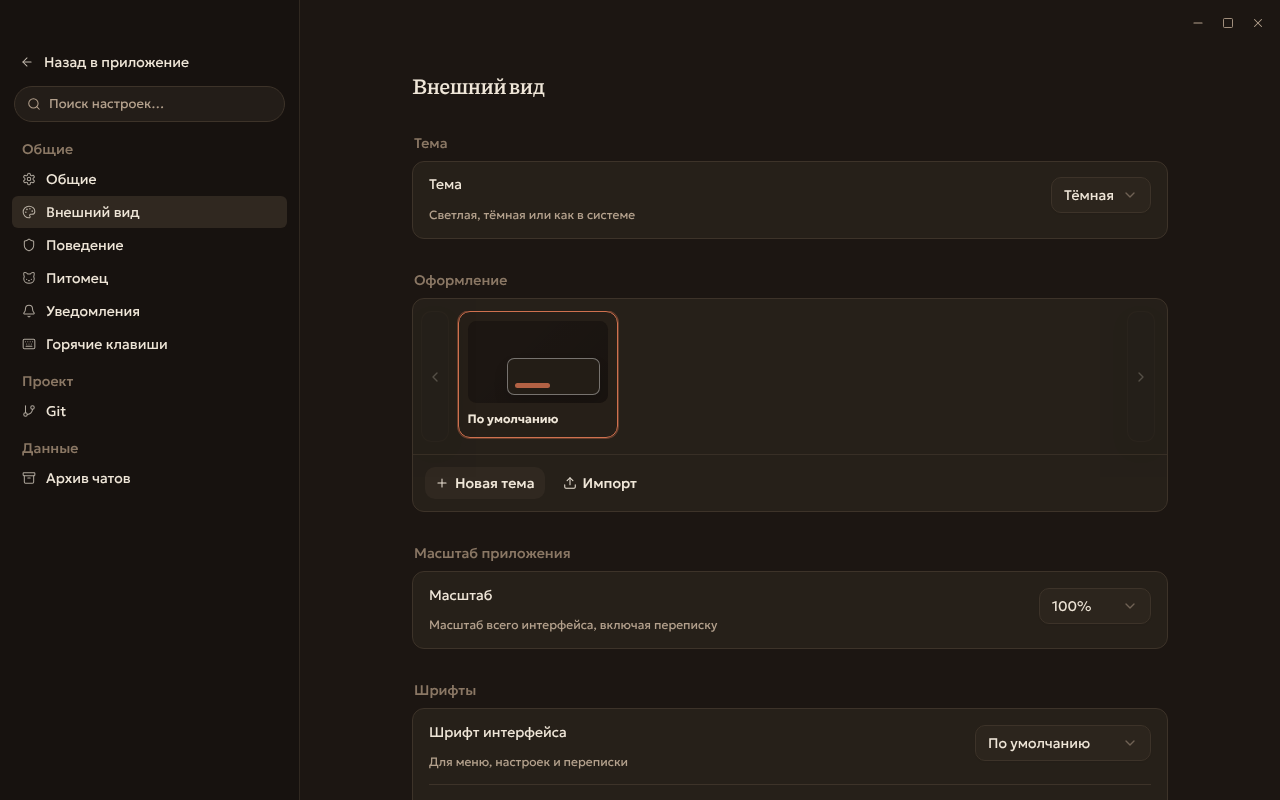
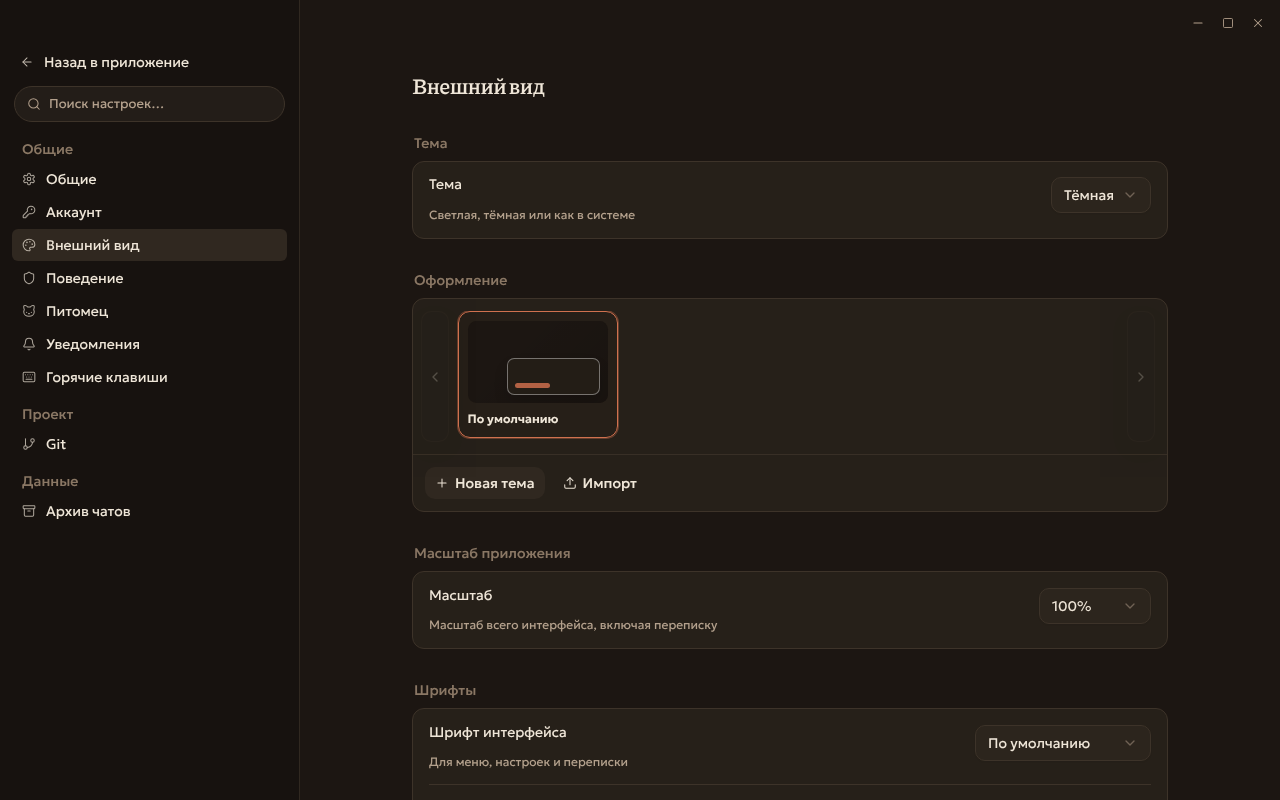
desktop/ui: casual tool cards, first-run/undo/account screenshots, STATUS
- Raw tool names hidden on step cards outside developer mode.
- Cost chip hidden at zero (PRSLOY models carry no prices yet).
- Key error sits under the field.
- e2e-screens/first-run.spec.ts: real first run against a mock gateway, undo
  checked on disk, account; light and dark screenshots.

Claude-Session: https://claude.ai/code/session_01T1MXX92ZtwWirroZLYeuiB

Changed region(s): [[0.0, 0.2188, 0.25, 0.4375], [0.0, 0.4688, 0.125, 0.5625], [0.0, 0.5938, 0.0938, 0.6562]]

diff --git a/app/apps/desktop/e2e-screens/first-run.spec.ts b/app/apps/desktop/e2e-screens/first-run.spec.ts
@@ -1,0 +1,218 @@
+/**
+ * First run → undo → account, in light and dark, against a local mock of the PRSLOY gateway.
+ *
+ *   pnpm --filter @zeno/desktop run build
+ *   xvfb-run -a pnpm --filter @zeno/desktop exec playwright test -c playwright.screens.config.ts
+ *
+ * Fresh isolated profile per theme (ZENO_ISOLATED=1, temp HOME and userData). The gateway
+ * address is pre-seeded to the mock (loopback http is allowed); `GET /v1/models` accepts only
+ * `sk-good`, so a wrong key shows core's `invalid_key` in Russian. The model writes one file,
+ * which gives the turn its «Откатить».
+ */
+import { expect, test, type Page } from "@playwright/test";
+import { _electron as electron } from "playwright";
+import { createServer, type Server } from "node:http";
+import { createRequire } from "node:module";
+import { existsSync } from "node:fs";
+import { mkdir, mkdtemp, rm, writeFile } from "node:fs/promises";
+import { homedir, tmpdir } from "node:os";
+import { dirname, join } from "node:path";
+import { fileURLToPath } from "node:url";
+
+const require = createRequire(import.meta.url);
+const electronBinary = require("electron") as string;
+const appDirectory = join(dirname(fileURLToPath(import.meta.url)), "..");
+const outDir = join(appDirectory, "..", "..", "docs", "prsloy", "screens");
+const GOOD_KEY = "sk-good-0000abcd";
+
+type Message = { role: string };
+
+function mockGateway(pagePath: string): Server {
+  return createServer((req, res) => {
+    const authorized = req.headers.authorization === `Bearer ${GOOD_KEY}`;
+    if (req.method === "GET" && req.url === "/v1/models") {
+      res.writeHead(authorized ? 200 : 401, { "content-type": "application/json" });
+      res.end(
+        JSON.stringify(
+          authorized
+            ? { data: [{ id: "deepseek-v4.1-flash-1017" }, { id: "kimi-k3.1-pro" }] }
+            : { error: { message: "bad key" } },
+        ),
+      );
+      return;
+    }
+    let body = "";
+    req.on("data", (chunk: Buffer) => (body += String(chunk)));
+    req.on("end", () => {
+      if (!authorized) {
+        res.writeHead(401).end();
+        return;
+      }
+      const { messages = [], model = "m" } = JSON.parse(body || "{}") as {
+        messages?: Message[];
+        model?: string;
+      };
+      const lastUser = messages.findLastIndex((m) => m.role === "user");
+      const afterTool = messages.slice(lastUser + 1).some((m) => m.role === "tool");
+      res.writeHead(200, { "content-type": "text/event-stream" });
+      const send = (delta: object, finish: string | null = null, usage?: object) =>
+        res.write(
+          `data: ${JSON.stringify({
+            id: "c1",
+            object: "chat.completion.chunk",
+            created: 0,
+            model,
+            choices: [{ index: 0, delta, finish_reason: finish }],
+            ...(usage ? { usage } : {}),
+          })}\n\n`,
+        );
+      send({ role: "assistant", content: "" });
+      if (!afterTool) {
+        const content = "<!doctype html>\n<title>Зерно</title>\n<h1>Кофейня «Зерно»</h1>\n";
+        send({
+          tool_calls: [
+            {
+              index: 0,
+              id: "call-write",
+              type: "function",
+              function: { name: "write", arguments: JSON.stringify({ path: pagePath, content }) },
+            },
+          ],
+        });
+        send({}, "tool_calls", { prompt_tokens: 2400, completion_tokens: 90, total_tokens: 2490 });
+      } else {
+        for (const part of "Готово: сделал страницу кофейни с заголовком. Открыть превью?".split(
+          " ",
+        ))
+          send({ content: `${part} ` });
+        send({}, "stop", { prompt_tokens: 2600, completion_tokens: 40, total_tokens: 2640 });
+      }
+      res.end("data: [DONE]\n\n");
+    });
+  });
+}
+
+async function shot(page: Page, name: string) {
+  await page.evaluate(() => document.fonts.ready);
+  await page.waitForTimeout(400);
+  await page.screenshot({ path: join(outDir, `${name}.png`) });
+}
+
+for (const mode of ["light", "dark"] as const) {
+  test(`first run, undo and account (${mode})`, async () => {
+    await mkdir(outDir, { recursive: true });
+    const root = await mkdtemp(join(tmpdir(), `prsloy-first-run-${mode}-`));
+    const home = join(root, "home");
+    const userData = join(root, "userData");
+    // Projects live outside tmp: main treats /tmp paths as throwaway, never as a recent project.
+    const projects = await mkdtemp(join(homedir(), `.prsloy-screens-${mode}-`));
+    const zerno = join(projects, "kofeynya-zerno");
+    await Promise.all([
+      mkdir(home, { recursive: true }),
+      mkdir(join(userData, "prsloy"), { recursive: true }),
+      mkdir(zerno, { recursive: true }),
+    ]);
+    const pagePath = join(zerno, "index.html");
+    await writeFile(join(zerno, "README.md"), "# Кофейня «Зерно»\n");
+
+    const server = mockGateway(pagePath);
+    await new Promise<void>((resolve) => server.listen(0, "127.0.0.1", resolve));
+    const { port } = server.address() as { port: number };
+    await writeFile(
+      join(userData, "prsloy", "state.json"),
+      JSON.stringify({ baseUrl: `http://127.0.0.1:${port}/v1` }),
+    );
+
+    const env: Record<string, string> = {};
+    for (const [key, value] of Object.entries(process.env)) {
+      if (value !== undefined) env[key] = value;
+    }
+    Object.assign(env, {
+      HOME: home,
+      USERPROFILE: home,
+      XDG_CONFIG_HOME: join(home, ".config"),
+      ZENO_ISOLATED: "1",
+      ZENO_NO_AUTO_RESUME: "1",
+      LANG: "ru_RU.UTF-8",
+    });
+    delete env.ELECTRON_RUN_AS_NODE;
+    delete env.ZENO_ENABLE_TEST_COMMANDS;
+    delete env.PI_CODING_AGENT_DIR;
+
+    const app = await electron.launch({
+      executablePath: electronBinary,
+      args: [
+        appDirectory,
+        `--user-data-dir=${userData}`,
+        "--lang=ru",
+        // Linux CI has no keyring; basic store lets safeStorage encrypt like DPAPI would.
+        "--password-store=basic",
+      ],
+      cwd: appDirectory,
+      env,
+      timeout: 60_000,
+    });
+    try {
+      const page = await app.firstWindow({ timeout: 60_000 });
+      await app.evaluate(({ BrowserWindow }) => {
+        const win = BrowserWindow.getAllWindows()[0];
+        win?.setContentSize(1280, 800);
+        win?.center();
+      });
+      await expect(page.getByTestId("prsloy-first-run-key")).toBeVisible({ timeout: 60_000 });
+      // Pin the app's own theme preference (main overrides an OS-level switch).
+      await page.evaluate((value) => localStorage.setItem("zeno.colorMode", value), mode);
+      await page.reload();
+
+      // Key: a wrong key first, so the screenshot shows core's code in plain Russian.
+      await expect(page.getByTestId("prsloy-first-run-key")).toBeVisible({ timeout: 60_000 });
+      const input = page.getByPlaceholder("sk-…");
+      await input.fill("sk-wrong");
+      await page.getByRole("button", { name: "Продолжить" }).click();
+      await expect(page.getByRole("alert")).toContainText("Ключ не подошёл");
+      await shot(page, `${mode}-first-run-key`);
+
+      await input.fill(GOOD_KEY);
+      await page.getByRole("button", { name: "Продолжить" }).click();
+      await expect(page.getByTestId("prsloy-first-run-folder")).toBeVisible({ timeout: 60_000 });
+      await shot(page, `${mode}-first-run-folder`);
+
+      // The native folder dialog cannot be driven; answer it with the demo project.
+      await app.evaluate(({ dialog }, folder) => {
+        dialog.showOpenDialog = (async () => ({
+          canceled: false,
+          filePaths: [folder],
+        })) as unknown as typeof dialog.showOpenDialog;
+      }, zerno);
+      await page.getByTestId("prsloy-folder-pick").click();
+      await page.waitForSelector('[data-testid="zeno-app"][data-bootstrap-ready="true"]', {
+        timeout: 120_000,
+      });
+
+      await page.getByTestId("prompt-input").fill("Сделай главную страницу кофейни");
+      await page.getByTestId("send-prompt").click();
+      await expect(page.getByTestId("timeline")).toContainText("Открыть превью?", {
+        timeout: 90_000,
+      });
+      expect(existsSync(pagePath)).toBe(true);
+      const undo = page.getByTestId("turn-undo-btn");
+      await expect(undo).toBeEnabled({ timeout: 30_000 });
+      await undo.click();
+      await expect(page.getByTestId("turn-undo-confirm")).toBeVisible();
+      await shot(page, `${mode}-undo`);
+      await page.getByTestId("turn-undo-confirm").getByRole("button", { name: "Откатить" }).click();
+      await expect(page.getByTestId("turn-undo-result")).toHaveText("Вернул 1 файл");
+      expect(existsSync(pagePath)).toBe(false);
+      await shot(page, `${mode}-undo-done`);
+
+      await page.keyboard.press("Control+,");
+      await page.getByTestId("settings-nav-account").click();
+      await expect(page.getByTestId("settings-account-masked")).toContainText("abcd");
+      await shot(page, `${mode}-account`);
+    } finally {
+      await app.close().catch(() => undefined);
+      server.close();
+      await rm(projects, { recursive: true, force: true });
+    }
+  });
+}

diff --git a/app/apps/desktop/e2e-screens/screens.spec.ts b/app/apps/desktop/e2e-screens/screens.spec.ts
@@ -6,7 +6,7 @@
  *
  * Runs the dev bundle isolated (ZENO_ISOLATED=1, temp HOME and userData) against a local
  * OpenAI-compatible fake that answers in Russian, reads one file, and reports token usage
- * so the ruble cost shows. The two tier models are registered under the PRSLOY provider.
+ * so the ruble cost shows. The two tier models are registered under a demo provider.
  */
 import { expect, test, type Page } from "@playwright/test";
 import { _electron as electron, type ElectronApplication } from "playwright";
@@ -110,7 +110,8 @@ async function launch(): Promise<{ app: ElectronApplication; page: Page; server:
     join(agentDir, "models.json"),
     JSON.stringify({
       providers: {
-        prsloy: {
+        // Not `prsloy`: core owns that provider and supplies its key at runtime.
+        "prsloy-demo": {
           baseUrl: `http://127.0.0.1:${port}/v1`,
           apiKey: "test-key-not-secret",
           api: "openai-completions",
@@ -133,8 +134,11 @@ async function launch(): Promise<{ app: ElectronApplication; page: Page; server:
     XDG_CONFIG_HOME: join(home, ".config"),
     PI_CODING_AGENT_DIR: agentDir,
     ZENO_ISOLATED: "1",
+    // Core honors PI_CODING_AGENT_DIR (this fake provider) only in test mode, which also
+    // skips the first-run screens; first-run.spec.ts covers those.
+    ZENO_ENABLE_TEST_COMMANDS: "1",
     ZENO_WORKSPACE: workspace,
-    ZENO_MODEL_PROVIDER: "prsloy",
+    ZENO_MODEL_PROVIDER: "prsloy-demo",
     ZENO_MODEL_ID: "deepseek-v4.1-flash-1017",
     ZENO_TOOLS: "read",
     ZENO_PERSIST_SESSION: "0",

diff --git a/app/apps/desktop/src/renderer/components/prsloy/FirstRunGate.tsx b/app/apps/desktop/src/renderer/components/prsloy/FirstRunGate.tsx
@@ -129,6 +129,11 @@ export function FirstRunGate({ children }: { children: ReactNode }) {
               onChange={(event) => setKey(event.target.value)}
               disabled={busy}
             />
+            {error ? (
+              <p role="alert" className="prsloy-first-run-error">
+                {error}
+              </p>
+            ) : null}
             <Button type="submit" className="h-10" disabled={busy || !cleanPastedKey(key)}>
               {busy
                 ? t(locale, "prsloy.firstRun.keyChecking")
@@ -176,16 +181,16 @@ export function FirstRunGate({ children }: { children: ReactNode }) {
                 ))}
               </div>
             ) : null}
+            {error ? (
+              <p role="alert" className="prsloy-first-run-error">
+                {error}
+              </p>
+            ) : null}
             {state?.keyMemoryOnly ? (
               <p className="prsloy-first-run-note">{t(locale, "prsloy.firstRun.keyMemoryOnly")}</p>
             ) : null}
           </div>
         )}
-        {error ? (
-          <p role="alert" className="prsloy-first-run-error">
-            {error}
-          </p>
-        ) : null}
       </div>
     </div>
   );

diff --git a/app/apps/desktop/src/renderer/components/TimelineRow.tsx b/app/apps/desktop/src/renderer/components/TimelineRow.tsx
@@ -83,6 +83,7 @@ import {
   type TimelineItem,
 } from "../lib/timeline.ts";
 import { cn } from "../lib/utils.ts";
+import { useCasualPrefs } from "../hooks/useCasualPrefs.ts";
 
 /** Tick wall-clock once per second while `active` so elapsed labels stay live. */
 function useNow(active: boolean): number {
@@ -1266,7 +1267,10 @@ function ProcessToolRow(props: {
         })
       : openTitleBase;
 
-  const typeLabel = hasBody ? processToolTypeLabel(props.item.toolName) : undefined;
+  // The raw tool name («read», «bash») is a developer's detail; the verb already says it.
+  const { developerMode } = useCasualPrefs();
+  const typeLabel =
+    hasBody && developerMode ? processToolTypeLabel(props.item.toolName) : undefined;
 
   // Nested under a group: no in-flow icon so the verb shares the left edge with the group label.
   // Running spinner sits in the left gutter via CSS, not the text column.

diff --git a/app/apps/desktop/src/renderer/components/CostChip.tsx b/app/apps/desktop/src/renderer/components/CostChip.tsx
@@ -23,8 +23,8 @@ export function CostChip(props: { locale: Locale }) {
   }, [sessionKey, running, sessionUsd]);
 
   if (typeof sessionUsd !== "number" || !Number.isFinite(sessionUsd)) return null;
-  // Nothing spent and no turn yet: an empty chat needs no price tag.
-  if (sessionUsd === 0 && turnUsd === undefined) return null;
+  // Zero means nothing spent yet, or a model without prices: no tag rather than «0,00 ₽».
+  if (sessionUsd <= 0) return null;
   const rub = (usd: number) => formatRub(usdToRub(usd, rubPerUsd), props.locale);
   const sessionLabel = t(props.locale, "cost.session", { amount: rub(sessionUsd) });
   const turnLabel =

diff --git a/app/docs/prsloy/STATUS-ui.md b/app/docs/prsloy/STATUS-ui.md
@@ -43,24 +43,58 @@
 Бюджеты больших файлов не превышены и даже уменьшены: из них вынесены `ResourcesPage`, `EnvironmentSection` и
 `ContextUsageIndicator` (main.tsx 4534 → 4476, SettingsPage 5163 → 5109, Composer 1811 → 1758).
 
+## Этап 2 (после слияния с ядром)
+
+1. **«Откатить ход».** Под каждым законченным ходом, где работал `edit` или `write`, — тихое действие «Откатить».
+   - Открывает `ConfirmDialog` «Вернуть файлы как были до этого хода?», зовёт `undoTurn` ядра и пишет итог
+     («Вернул 3 файла», «Файлы не менялись»).
+   - Рядом «Вернуть как было»: откатывает обратно на снимок, который ядро делает прямо перед откатом.
+   - Пока идёт ход, действие выключено.
+   - Ход сопоставляется со снимком по первой строке запроса, новые раньше, снимок не используется дважды
+     (`lib/turn-undo.ts`). `sessionId` есть не у всех снимков: первый ход нового чата снимается до создания сессии.
+2. **Первый запуск** (`components/prsloy/FirstRunGate.tsx`).
+   - Бумажный фон, слово PRSLOY в Piazzolla, одно поле и одна кнопка.
+   - Ошибки ядра по-человечески: «Ключ не подошёл. Проверьте, что скопировали его целиком», «На балансе пусто.
+     Пополните его на prsloy.online» и т. д.
+   - «Где взять ключ» → https://prsloy.online.
+   - Затем «Выбрать папку» и недавние папки, если есть. При живом первом запуске их нет: если недавние уже есть,
+     main сам открывает первую.
+3. **Настройки → «Аккаунт»** (видно и в казуальном режиме).
+   - Ключ маской, «Сменить ключ» с проверкой через ядро.
+   - «Адрес сервера»: по умолчанию `https://api.prsloy.online/v1`, «Сохранить» и «Вернуть по умолчанию».
+   - «Курс ₽ за $» переехал сюда из «Общих».
+4. **Казуальный чат.** Карточки читаются как «Прочитал README.md», «Поправил…», «Запустил…».
+   - Сырое имя инструмента (`read`, `bash`) скрыто без режима разработчика.
+   - Группа шагов и выводы свёрнуты по умолчанию.
+5. **Скриншоты** (светлая и тёмная): `{light,dark}-first-run-key`, `-first-run-folder`, `-undo`, `-undo-done`,
+   `-account` из `e2e-screens/first-run.spec.ts`.
+   - Это настоящий первый запуск против мок-шлюза: неверный ключ даёт `invalid_key`, верный проходит.
+   - Нативный диалог папки подменён ответом с демо-проектом.
+   - Модель пишет файл, «Откатить» его удаляет (тест проверяет диск).
+
+### Замечания ядру
+
+- **Рубли для моделей PRSLOY всегда 0.** `buildPrsloyModelsJsonProvider` пишет `cost: 0` для всех моделей, поэтому
+  pi считает сессию бесплатной. Плашка с рублями при нулевой стоимости скрыта, чтобы не показывать «0,00 ₽».
+  Нужны цены за 1M токенов в `PRSLOY_MODELS` (или стоимость от шлюза).
+- На Linux без keyring `safeStorage` недоступен даже с `--password-store=basic`, поэтому на скриншотах видна
+  подпись «Ключ не сохранится». На Windows (DPAPI) её не будет.
+
 ## Как проверено
 
 ```
-$ pnpm exec vp check --no-fmt
-pass: Found no warnings, lint errors, or type errors in 421 files
+$ pnpm check
+pass: All 529 files are correctly formatted
+pass: Found no warnings, lint errors, or type errors in 486 files
 $ pnpm test
- Test Files  95 passed (95)
-      Tests  690 passed (690)
+ desktop: Test Files 112 passed, Tests 767 passed; harness 104; agent-runtime 115
 file budgets ok (4 frozen, 2000-line ceiling for the rest)
 $ pnpm --filter @zeno/desktop run build
 $ xvfb-run -a npx playwright test -c playwright.screens.config.ts   # в apps/desktop
-  1 passed (21.8s)
+  3 passed (first-run light/dark + main screens)
 $ identify build/icon.ico   → 16, 24, 32, 48, 64, 128, 256
 $ file build/icon.icns      → Mac OS X icon, "ic07" type
 ```
-
-`pnpm check` целиком красный только из-за форматирования `docs/prsloy/CONTEXT.md`. Это уже так на `main`, и файл
-правит ветка ci, поэтому я его не трогал. Достаточно одного `vp check --fix` при слиянии.
 
 ## Что не сделано и почему
 
